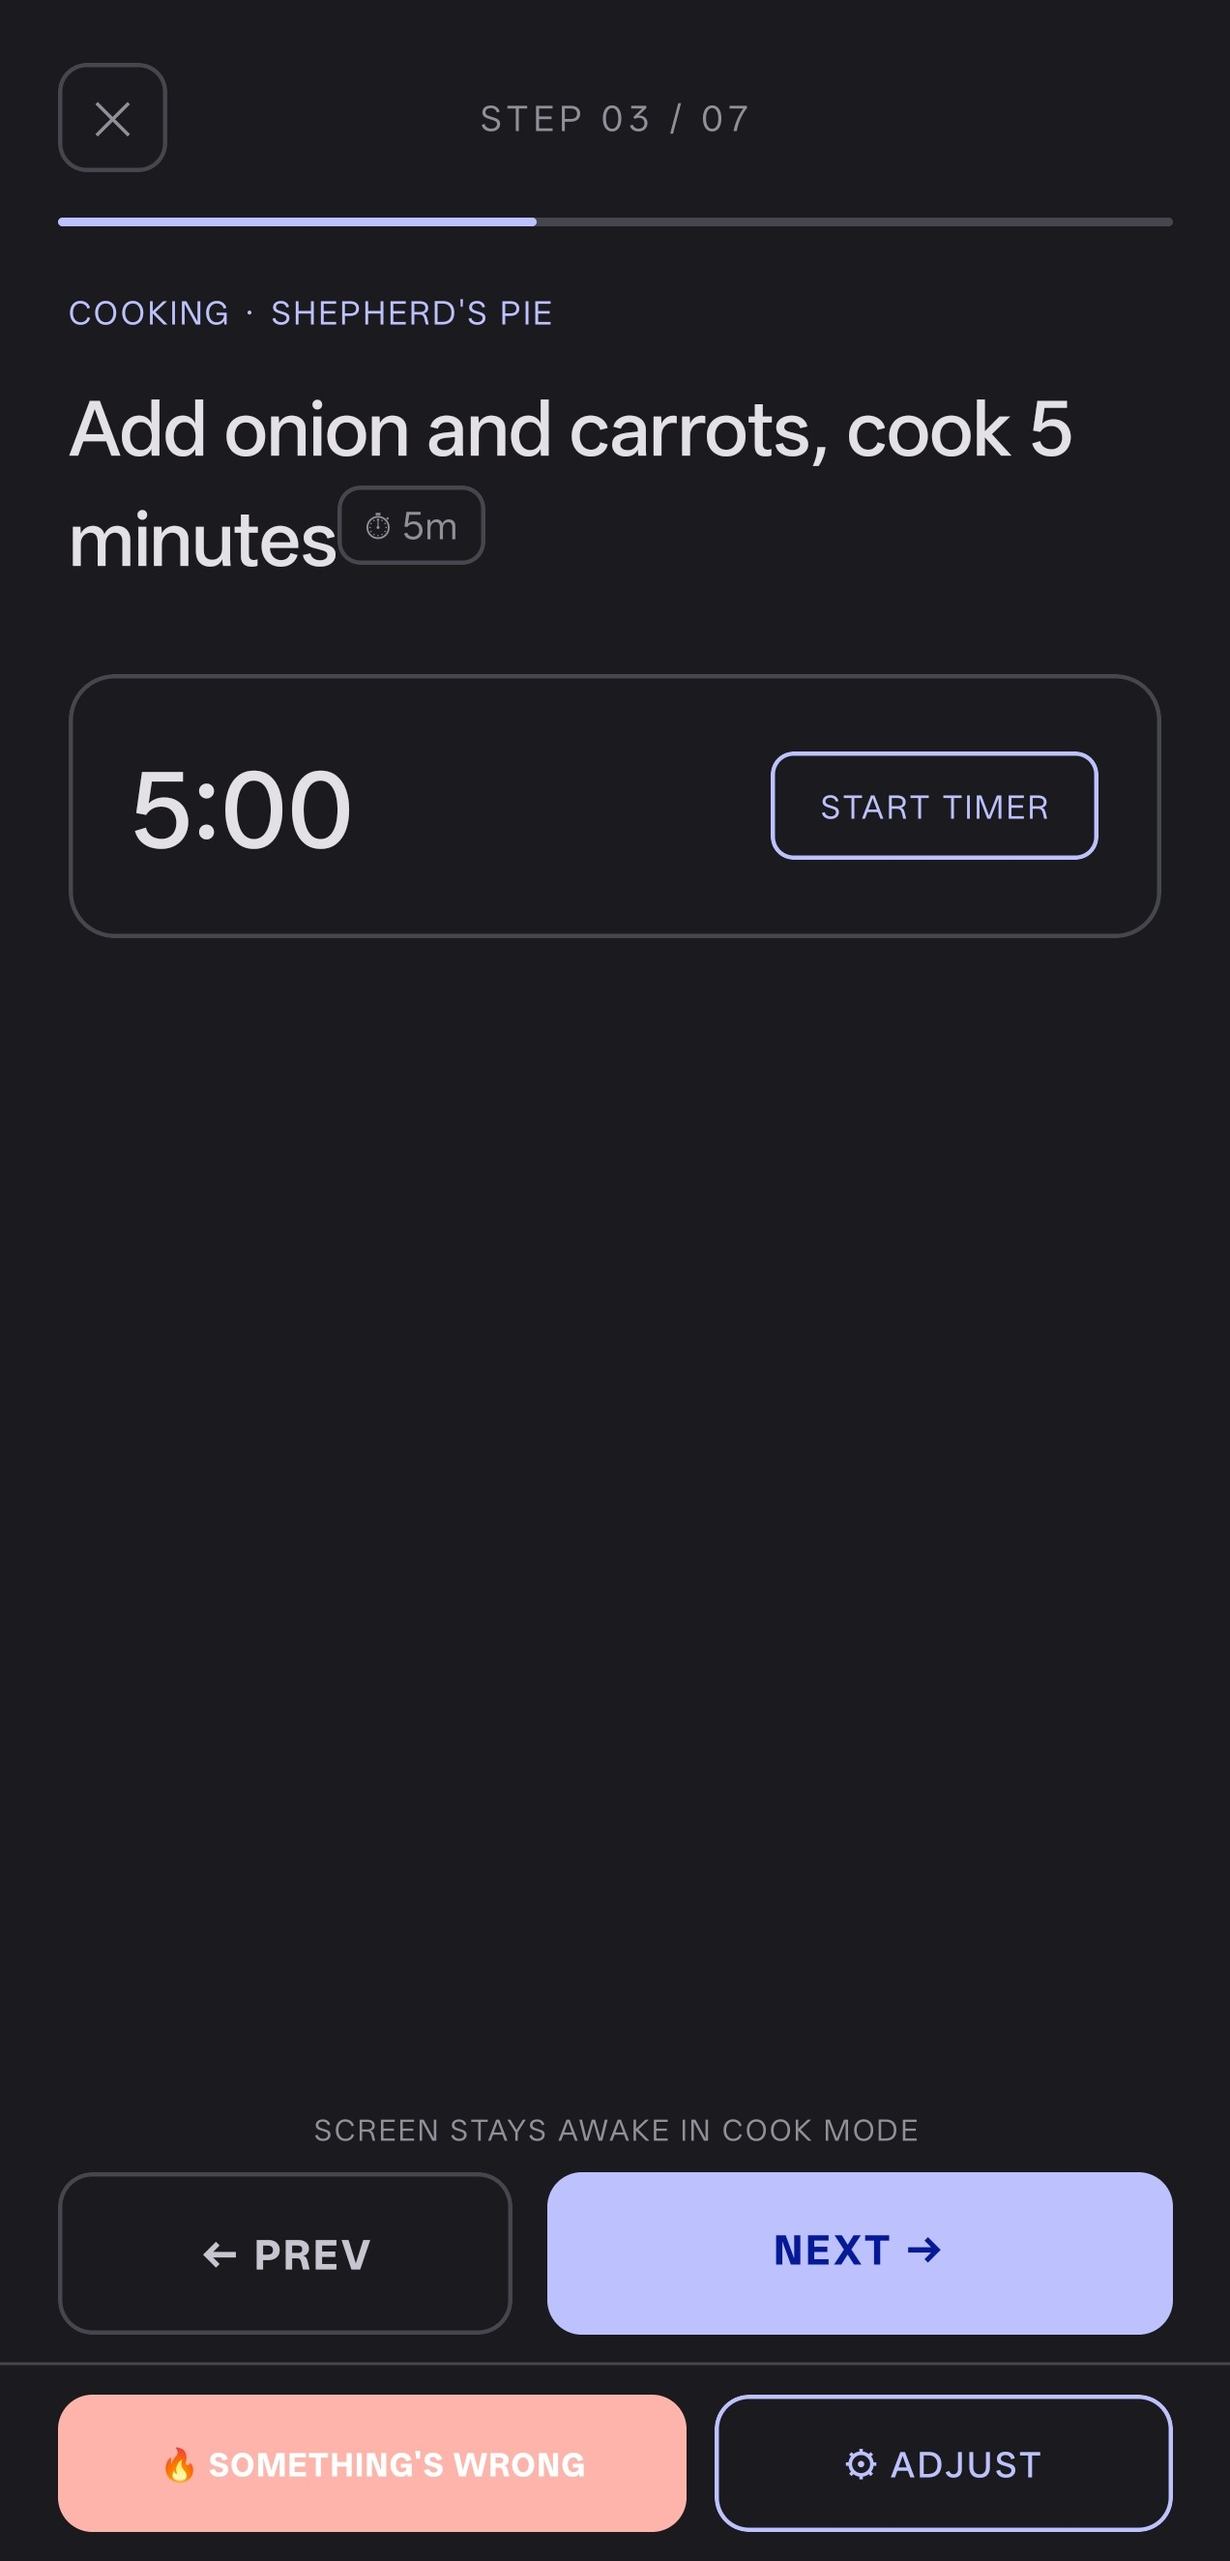
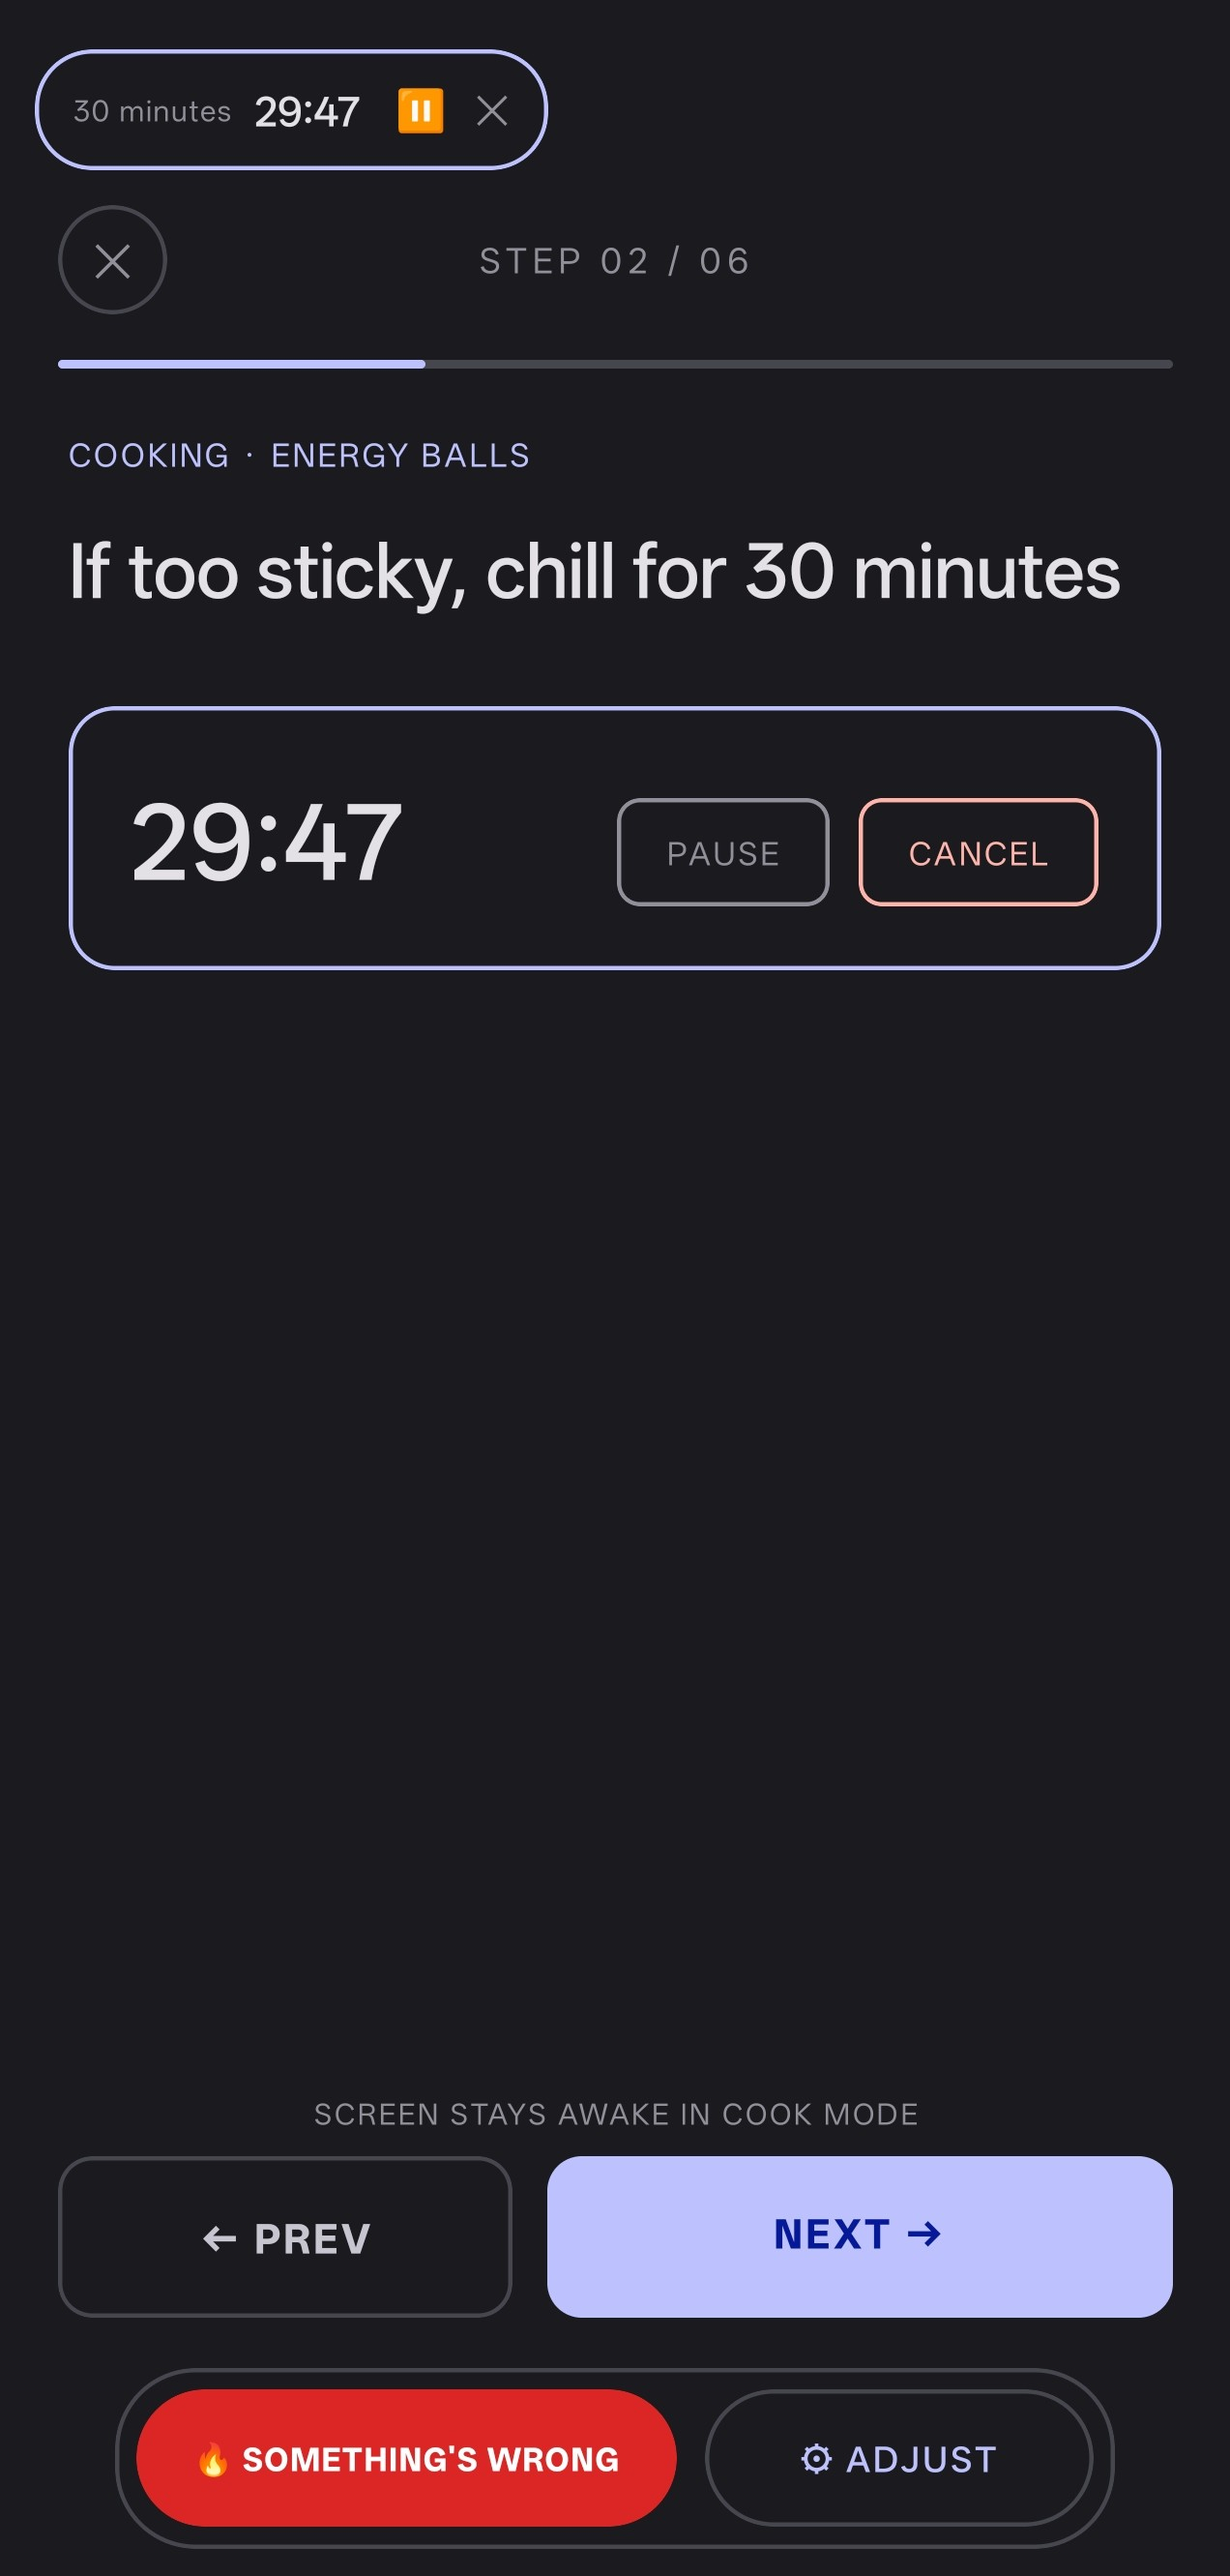
Update screenshots: 11 new app screenshots in horizontal scroll showcase
- Added 9 new screenshots: recipe-library, recipe-detail, cook-fix, shopping-list, terry-home, terry-chat, terry-vision, vision-recipe, kitchen-log
- Replaced old cook-mode and meal-plan screenshots with fresh ones
- Website: horizontal scroll strip with 11 phone-frame screenshots
- Website: updated APK version to v1.3.0
- Website: generated OG social sharing image
- README: added 11 screenshot thumbnails in centered grid
- CSS: new .screenshot-showcase/.screenshot-strip layout with hover effects

diff --git a/docs/index.html b/docs/index.html
@@ -251,35 +251,79 @@
       <div class="section-header">
         <p class="mono">See it in action</p>
         <h2>Inside the app</h2>
-        <p>Real screenshots from the Android app — recipes, Terry, meal planning, and cook mode.</p>
+        <p>Real screenshots from the Android app — recipe library, Chef Terry, meal planning, cook mode, and more.</p>
       </div>
-      <div class="screenshot-grid">
-        <figure class="screenshot-card">
-          <button type="button" class="phone-frame" data-lightbox="assets/screenshots/recipes.jpg" aria-label="Enlarge recipe library screenshot">
-            <img src="assets/screenshots/recipes.jpg" alt="Cegin recipe library showing pasta, chicken, and lasagne cards with search and filter tabs" width="1272" height="2640" loading="lazy" decoding="async">
-          </button>
-          <figcaption>Recipe library with search, tabs, and photo cards</figcaption>
-        </figure>
-        <figure class="screenshot-card">
-          <button type="button" class="phone-frame" data-lightbox="assets/screenshots/terry.jpg" aria-label="Enlarge Chef Terry screenshot">
-            <img src="assets/screenshots/terry.jpg" alt="Chef Terry chat screen with context-aware recipe suggestions and quick-reply buttons" width="1272" height="2633" loading="lazy" decoding="async">
-          </button>
-          <figcaption>Chef Terry — context-aware chat with personality</figcaption>
-        </figure>
-        <figure class="screenshot-card">
-          <button type="button" class="phone-frame" data-lightbox="assets/screenshots/meal-plan.jpg" aria-label="Enlarge meal planner screenshot">
-            <img src="assets/screenshots/meal-plan.jpg" alt="Weekly meal planner with breakfast, lunch, dinner slots and Fill Week button" width="1272" height="2644" loading="lazy" decoding="async">
-          </button>
-          <figcaption>Meal planner with five slots per day and Fill Week</figcaption>
-        </figure>
-        <figure class="screenshot-card">
-          <button type="button" class="phone-frame" data-lightbox="assets/screenshots/cook-mode.jpg" aria-label="Enlarge cook mode screenshot">
-            <img src="assets/screenshots/cook-mode.jpg" alt="Cook mode step 3 of 7 for Shepherd's Pie with timer and Something's Wrong button" width="1272" height="2648" loading="lazy" decoding="async">
-          </button>
-          <figcaption>Cook mode — timers, step progress, and mid-cook help</figcaption>
-        </figure>
+      <div class="screenshot-showcase">
+        <div class="screenshot-strip">
+          <figure class="screenshot-card">
+            <button type="button" class="phone-frame" data-lightbox="assets/screenshots/recipe-library.jpg" aria-label="Enlarge recipe library screenshot">
+              <img src="assets/screenshots/recipe-library.jpg" alt="Cegin recipe library showing recipe cards with photos, search bar, and category filters" width="1272" height="2640" loading="lazy" decoding="async">
+            </button>
+            <figcaption>Recipe Library</figcaption>
+          </figure>
+          <figure class="screenshot-card">
+            <button type="button" class="phone-frame" data-lightbox="assets/screenshots/recipe-detail.jpg" aria-label="Enlarge recipe detail screenshot">
+              <img src="assets/screenshots/recipe-detail.jpg" alt="Recipe detail view showing Energy Balls with dietary audit, tags, timing, and Start Cooking button" width="1272" height="2640" loading="lazy" decoding="async">
+            </button>
+            <figcaption>Recipe Detail</figcaption>
+          </figure>
+          <figure class="screenshot-card">
+            <button type="button" class="phone-frame" data-lightbox="assets/screenshots/cook-mode.jpg" aria-label="Enlarge cook mode screenshot">
+              <img src="assets/screenshots/cook-mode.jpg" alt="Cook mode showing step 2 of 6 with timer countdown and navigation buttons" width="1272" height="2640" loading="lazy" decoding="async">
+            </button>
+            <figcaption>Cook Mode</figcaption>
+          </figure>
+          <figure class="screenshot-card">
+            <button type="button" class="phone-frame" data-lightbox="assets/screenshots/cook-fix.jpg" aria-label="Enlarge mid-cook fix screenshot">
+              <img src="assets/screenshots/cook-fix.jpg" alt="Terry troubleshooting screen with panicked cat mascot and fix suggestions" width="1272" height="2640" loading="lazy" decoding="async">
+            </button>
+            <figcaption>Mid-Cook Fix</figcaption>
+          </figure>
+          <figure class="screenshot-card">
+            <button type="button" class="phone-frame" data-lightbox="assets/screenshots/meal-plan.jpg" aria-label="Enlarge meal planner screenshot">
+              <img src="assets/screenshots/meal-plan.jpg" alt="Weekly meal planner with color-coded meal slots and Fill Week button" width="1272" height="2640" loading="lazy" decoding="async">
+            </button>
+            <figcaption>Meal Planner</figcaption>
+          </figure>
+          <figure class="screenshot-card">
+            <button type="button" class="phone-frame" data-lightbox="assets/screenshots/shopping-list.jpg" aria-label="Enlarge shopping list screenshot">
+              <img src="assets/screenshots/shopping-list.jpg" alt="Categorized shopping list with grocery sections and recipe tags" width="1272" height="2640" loading="lazy" decoding="async">
+            </button>
+            <figcaption>Shopping List</figcaption>
+          </figure>
+          <figure class="screenshot-card">
+            <button type="button" class="phone-frame" data-lightbox="assets/screenshots/terry-home.jpg" aria-label="Enlarge Chef Terry home screenshot">
+              <img src="assets/screenshots/terry-home.jpg" alt="Chef Terry home screen with cat mascot, quick action buttons, and Terry Vision" width="1272" height="2640" loading="lazy" decoding="async">
+            </button>
+            <figcaption>Chef Terry</figcaption>
+          </figure>
+          <figure class="screenshot-card">
+            <button type="button" class="phone-frame" data-lightbox="assets/screenshots/terry-chat.jpg" aria-label="Enlarge Terry chat screenshot">
+              <img src="assets/screenshots/terry-chat.jpg" alt="Chat conversation with Chef Terry showing personalized recipe suggestions" width="1272" height="2640" loading="lazy" decoding="async">
+            </button>
+            <figcaption>Terry Chat</figcaption>
+          </figure>
+          <figure class="screenshot-card">
+            <button type="button" class="phone-frame" data-lightbox="assets/screenshots/terry-vision.jpg" aria-label="Enlarge Terry Vision screenshot">
+              <img src="assets/screenshots/terry-vision.jpg" alt="Terry Vision showing scanned fridge ingredients and recipe matches" width="1272" height="2640" loading="lazy" decoding="async">
+            </button>
+            <figcaption>Terry Vision</figcaption>
+          </figure>
+          <figure class="screenshot-card">
+            <button type="button" class="phone-frame" data-lightbox="assets/screenshots/vision-recipe.jpg" aria-label="Enlarge Vision recipe suggestion screenshot">
+              <img src="assets/screenshots/vision-recipe.jpg" alt="AI-generated recipe from scanned ingredients with save option" width="1272" height="2640" loading="lazy" decoding="async">
+            </button>
+            <figcaption>Vision Recipe</figcaption>
+          </figure>
+          <figure class="screenshot-card">
+            <button type="button" class="phone-frame" data-lightbox="assets/screenshots/kitchen-log.jpg" aria-label="Enlarge kitchen log screenshot">
+              <img src="assets/screenshots/kitchen-log.jpg" alt="Kitchen log showing cooking stats, most cooked recipes, and activity feed" width="1272" height="2640" loading="lazy" decoding="async">
+            </button>
+            <figcaption>Kitchen Log</figcaption>
+          </figure>
+        </div>
       </div>
-      <p class="screenshot-note mono">Tap any screenshot to view full resolution (1272px native).</p>
+      <p class="screenshot-note mono">Tap any screenshot to view full resolution.</p>
     </div>
   </section>
 
@@ -803,7 +847,7 @@ docker compose up -d</div>
           <div class="step-num">02</div>
           <h3>Install the app</h3>
           <p>Download the APK from GitHub Releases and install on your Android phone. Push notifications require the APK — not Expo Go.</p>
-          <a href="https://github.com/Callummadden/cegin/releases" class="btn btn-secondary" target="_blank" rel="noopener noreferrer">Get APK v1.2.1</a>
+          <a href="https://github.com/Callummadden/cegin/releases" class="btn btn-secondary" target="_blank" rel="noopener noreferrer">Get APK v1.3.0</a>
         </article>
         <article class="step-card">
           <div class="step-num">03</div>

diff --git a/docs/styles.css b/docs/styles.css
@@ -1244,32 +1244,63 @@ body.theme-panel-open {
 }
 
 /* Screenshots */
-.screenshot-grid {
-  display: grid;
-  grid-template-columns: repeat(2, 1fr);
-  gap: 32px;
-  align-items: start;
-  max-width: 920px;
-  margin: 0 auto;
+.screenshot-showcase {
+  overflow-x: auto;
+  overflow-y: hidden;
+  -webkit-overflow-scrolling: touch;
+  scrollbar-width: thin;
+  scrollbar-color: var(--border) transparent;
+  padding-bottom: 8px;
+  margin: 0 -24px;
+  padding-left: 24px;
+  padding-right: 24px;
+}
+
+.screenshot-showcase::-webkit-scrollbar {
+  height: 6px;
+}
+
+.screenshot-showcase::-webkit-scrollbar-track {
+  background: transparent;
+}
+
+.screenshot-showcase::-webkit-scrollbar-thumb {
+  background: var(--border);
+  border-radius: 3px;
+}
+
+.screenshot-strip {
+  display: flex;
+  gap: 24px;
+  padding: 8px 0;
+  width: max-content;
 }
 
 .screenshot-card {
   margin: 0;
+  flex: 0 0 auto;
+  width: 220px;
+  transition: transform 0.3s ease;
+}
+
+.screenshot-card:hover {
+  transform: translateY(-4px);
 }
 
 .screenshot-card figcaption {
-  margin-top: 14px;
+  margin-top: 12px;
   text-align: center;
-  font-size: 0.85rem;
+  font-size: 0.82rem;
+  font-weight: 500;
   color: var(--text-muted);
-  line-height: 1.4;
+  letter-spacing: 0.02em;
 }
 
 .phone-frame {
   background: var(--surface);
   border: 1px solid var(--border);
   border-radius: 28px;
-  padding: 12px;
+  padding: 10px;
   box-shadow: var(--shadow);
   overflow: hidden;
   display: flex;
@@ -1293,12 +1324,12 @@ body.theme-panel-open {
   cursor: zoom-in;
   border: none;
   font: inherit;
-  transition: border-color 0.2s ease, transform 0.15s ease;
+  transition: border-color 0.2s ease, transform 0.15s ease, box-shadow 0.3s ease;
 }
 
 .screenshot-card button.phone-frame:hover {
   border-color: color-mix(in srgb, var(--primary) 35%, transparent);
-  transform: translateY(-2px);
+  box-shadow: 0 8px 32px color-mix(in srgb, var(--primary) 15%, transparent);
 }
 
 .screenshot-card button.phone-frame:focus-visible {
@@ -1308,7 +1339,7 @@ body.theme-panel-open {
 
 .screenshot-note {
   text-align: center;
-  margin-top: 28px;
+  margin-top: 24px;
   font-size: 0.75rem;
   color: var(--text-muted);
 }
@@ -1979,9 +2010,12 @@ body.theme-panel-open {
 
   .features-grid,
   .terry-features,
-  .stack-grid,
-  .screenshot-grid {
+  .stack-grid {
     grid-template-columns: 1fr;
+  }
+
+  .screenshot-card {
+    width: 180px;
   }
 
   .hero {

diff --git a/README.md b/README.md
@@ -1,6 +1,24 @@
 Cegin
 A personal recipe app with an AI cooking assistant named Chef Terry.
 [![Docker Image](https://img.shields.io/badge/docker-pull-blue.svg?logo=docker)](https://hub.docker.com/r/callum2254/cegin)
+
+<p align="center">
+  <img src="docs/assets/screenshots/recipe-library.jpg" width="200" alt="Recipe Library">
+  <img src="docs/assets/screenshots/terry-chat.jpg" width="200" alt="Chef Terry Chat">
+  <img src="docs/assets/screenshots/meal-plan.jpg" width="200" alt="Meal Planner">
+  <img src="docs/assets/screenshots/cook-mode.jpg" width="200" alt="Cook Mode">
+</p>
+<p align="center">
+  <img src="docs/assets/screenshots/recipe-detail.jpg" width="200" alt="Recipe Detail">
+  <img src="docs/assets/screenshots/cook-fix.jpg" width="200" alt="Mid-Cook Fix">
+  <img src="docs/assets/screenshots/shopping-list.jpg" width="200" alt="Shopping List">
+  <img src="docs/assets/screenshots/terry-vision.jpg" width="200" alt="Terry Vision">
+</p>
+<p align="center">
+  <img src="docs/assets/screenshots/terry-home.jpg" width="200" alt="Chef Terry Home">
+  <img src="docs/assets/screenshots/vision-recipe.jpg" width="200" alt="Vision Recipe">
+  <img src="docs/assets/screenshots/kitchen-log.jpg" width="200" alt="Kitchen Log">
+</p>
 * **Store, search, and organize** your recipes
 * **Import recipes** from any URL
 * **Plan meals**, build smart shopping lists, scale ingredients, convert units
